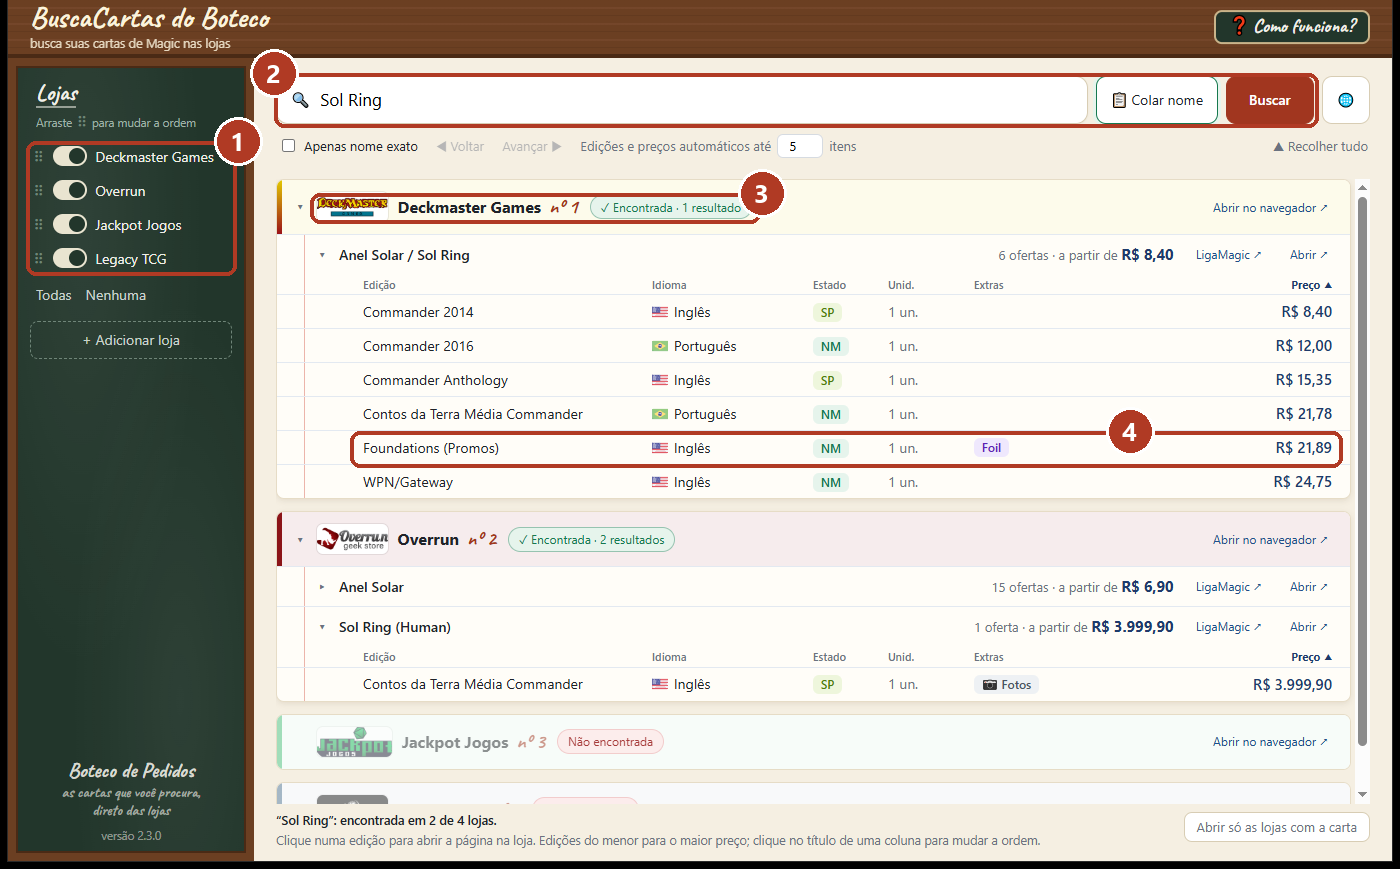
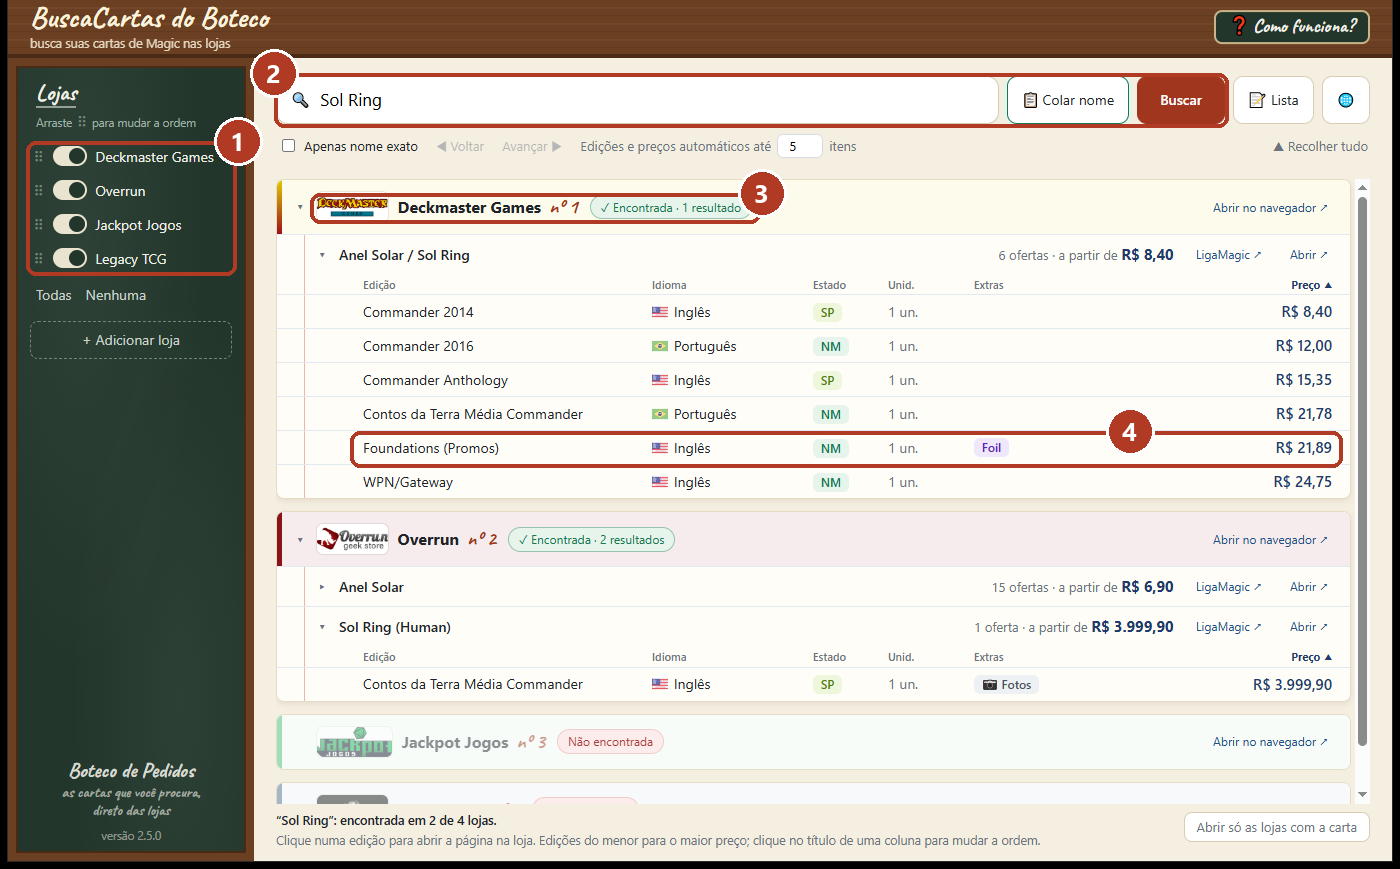
Versão 2.5.0

Changed region(s): [[0.7064, 0.0621, 0.9521, 0.1554]]

diff --git a/buscador/__init__.py b/buscador/__init__.py
@@ -1,3 +1,3 @@
 """BuscaCartas do Boteco: busca cartas de Magic nas lojas."""
 
-__version__ = "2.4.0"
+__version__ = "2.5.0"

diff --git a/docs/ROTEIRO.md b/docs/ROTEIRO.md
@@ -28,7 +28,7 @@
 
 ## Próximos passos (em ordem sugerida)
 
-1. **Versionamento no GitHub**: feito. Versões marcadas com tags: `v0.1.0` (primeira versão, arquivo único), `v0.2.0` (refatoração em módulos, testes e correções), `v0.3.0` (pré-venda com data, licença MIT e primeiro programa para Windows, em .zip) `v0.4.0` (`.exe` único, dados em `%APPDATA%`), `v0.5.0` (interface nova em HTML, PR #9), `v0.6.0` (arte da carta ao passar o mouse e etiqueta "📷 Fotos", PR #11) e `v1.0.0` (interface antiga removida, tela de abertura e leque animado, PR #13; primeira versão para a comunidade, ainda com o nome atual: nome novo e ícone ficam para uma versão seguinte) e `v2.0.0` (nome novo BuscaCartas do Boteco, decoração de boteco, ícone próprio, Art Cards no fim da lista e Recolher/Expandir tudo nas lojas, PR #15; o número maior marca a interface repaginada), `v2.1.0` (versão na tela, embaixo da lousa e no título, PR #17), `v2.2.0` (README novo, tutorial "Como funciona?" e botão "LigaMagic ↗", PR #19), `v2.3.0` (aviso de versão nova, com botão para baixar, PR #21) e `v2.4.0` (colunas para ordenar as edições, PR #23, e logo e cores das lojas de layout próprio, PR #24). A cada versão: subir `__version__` em `buscador/__init__.py`, juntar na `main`, criar a tag no commit da `main`, gerar o `.exe` (`py instalador/gerar_exe.py`) e publicá-lo na página de versões (Releases) do GitHub.
+1. **Versionamento no GitHub**: feito. Versões marcadas com tags: `v0.1.0` (primeira versão, arquivo único), `v0.2.0` (refatoração em módulos, testes e correções), `v0.3.0` (pré-venda com data, licença MIT e primeiro programa para Windows, em .zip) `v0.4.0` (`.exe` único, dados em `%APPDATA%`), `v0.5.0` (interface nova em HTML, PR #9), `v0.6.0` (arte da carta ao passar o mouse e etiqueta "📷 Fotos", PR #11) e `v1.0.0` (interface antiga removida, tela de abertura e leque animado, PR #13; primeira versão para a comunidade, ainda com o nome atual: nome novo e ícone ficam para uma versão seguinte) e `v2.0.0` (nome novo BuscaCartas do Boteco, decoração de boteco, ícone próprio, Art Cards no fim da lista e Recolher/Expandir tudo nas lojas, PR #15; o número maior marca a interface repaginada), `v2.1.0` (versão na tela, embaixo da lousa e no título, PR #17), `v2.2.0` (README novo, tutorial "Como funciona?" e botão "LigaMagic ↗", PR #19), `v2.3.0` (aviso de versão nova, com botão para baixar, PR #21), `v2.4.0` (colunas para ordenar as edições, PR #23, e logo e cores das lojas de layout próprio, PR #24) e `v2.5.0` (busca de uma lista inteira, ritmo do Scryfall dentro do limite, botões laterais do mouse e link de loja sem `https://`, PR #26). A cada versão: subir `__version__` em `buscador/__init__.py`, juntar na `main`, criar a tag no commit da `main`, gerar o `.exe` (`py instalador/gerar_exe.py`) e publicá-lo na página de versões (Releases) do GitHub.
 2. **Refatoração**: concluída e juntada na `main` (PR #1, versão `0.2.0`).
    - Feito (novembro de 2026): código dividido no pacote `buscador/` (config, armazenamento, modelos, texto, `lojas/ligamagic.py`, rede, automático, Scryfall, `interface/`), número de versão em `buscador/__init__.py`, ponto de entrada único (`buscador_mtg.py` ou `python -m buscador`). Código movido sem alterações de lógica; conferido comparando a leitura de páginas salvas e a tela de buscas reais com a versão anterior.
    - Feito: testes automáticos com pytest (64 testes na versão 0.2.0, sem requisições), com 5 páginas reais sanitizadas em `tests/fixtures/` (lista com vários resultados, produto devolvido direto pela busca, produto com promoção e linhas sem estoque, busca sem resultado) e o script `tests/sanitizar.py` para criar novas.

diff --git a/README.md b/README.md
@@ -45,6 +45,8 @@ Dá para rever quando quiser.
 
 ![Arte da carta ao parar o mouse no nome da edição](docs/imagens/arte-da-carta.png)
 
+![Busca de uma lista: o preço de cada carta em cada loja, com o total de cada loja](docs/imagens/lista.png)
+
 ### Atalhos
 
 | Atalho | O que faz |
